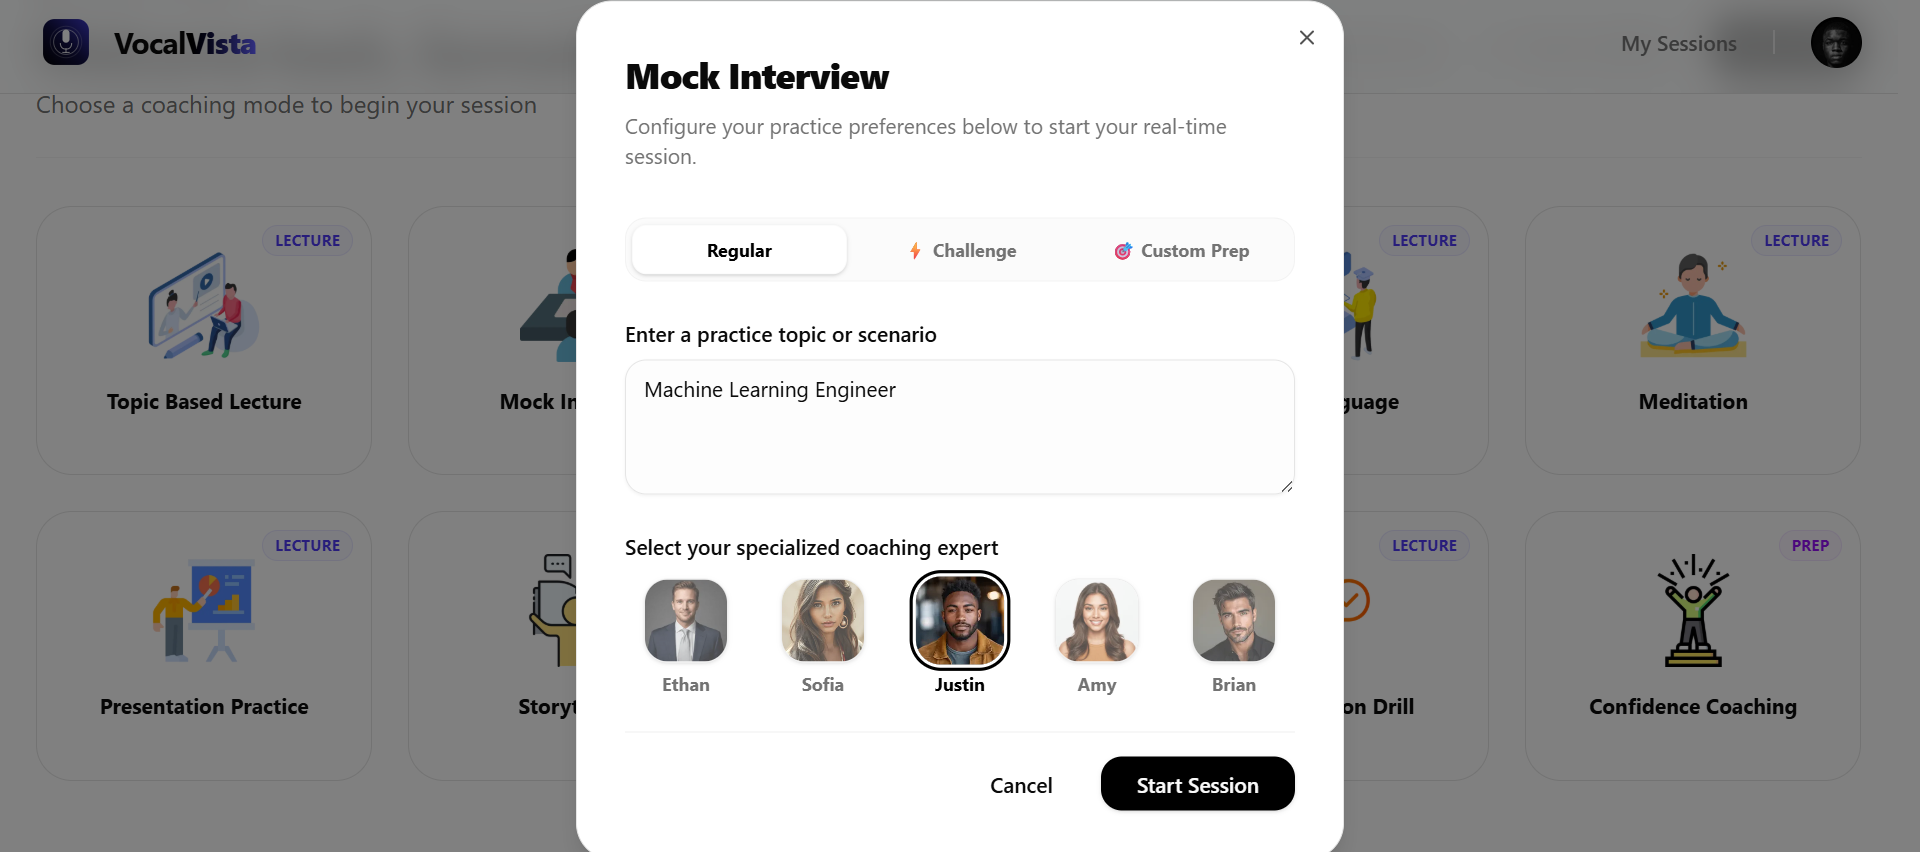
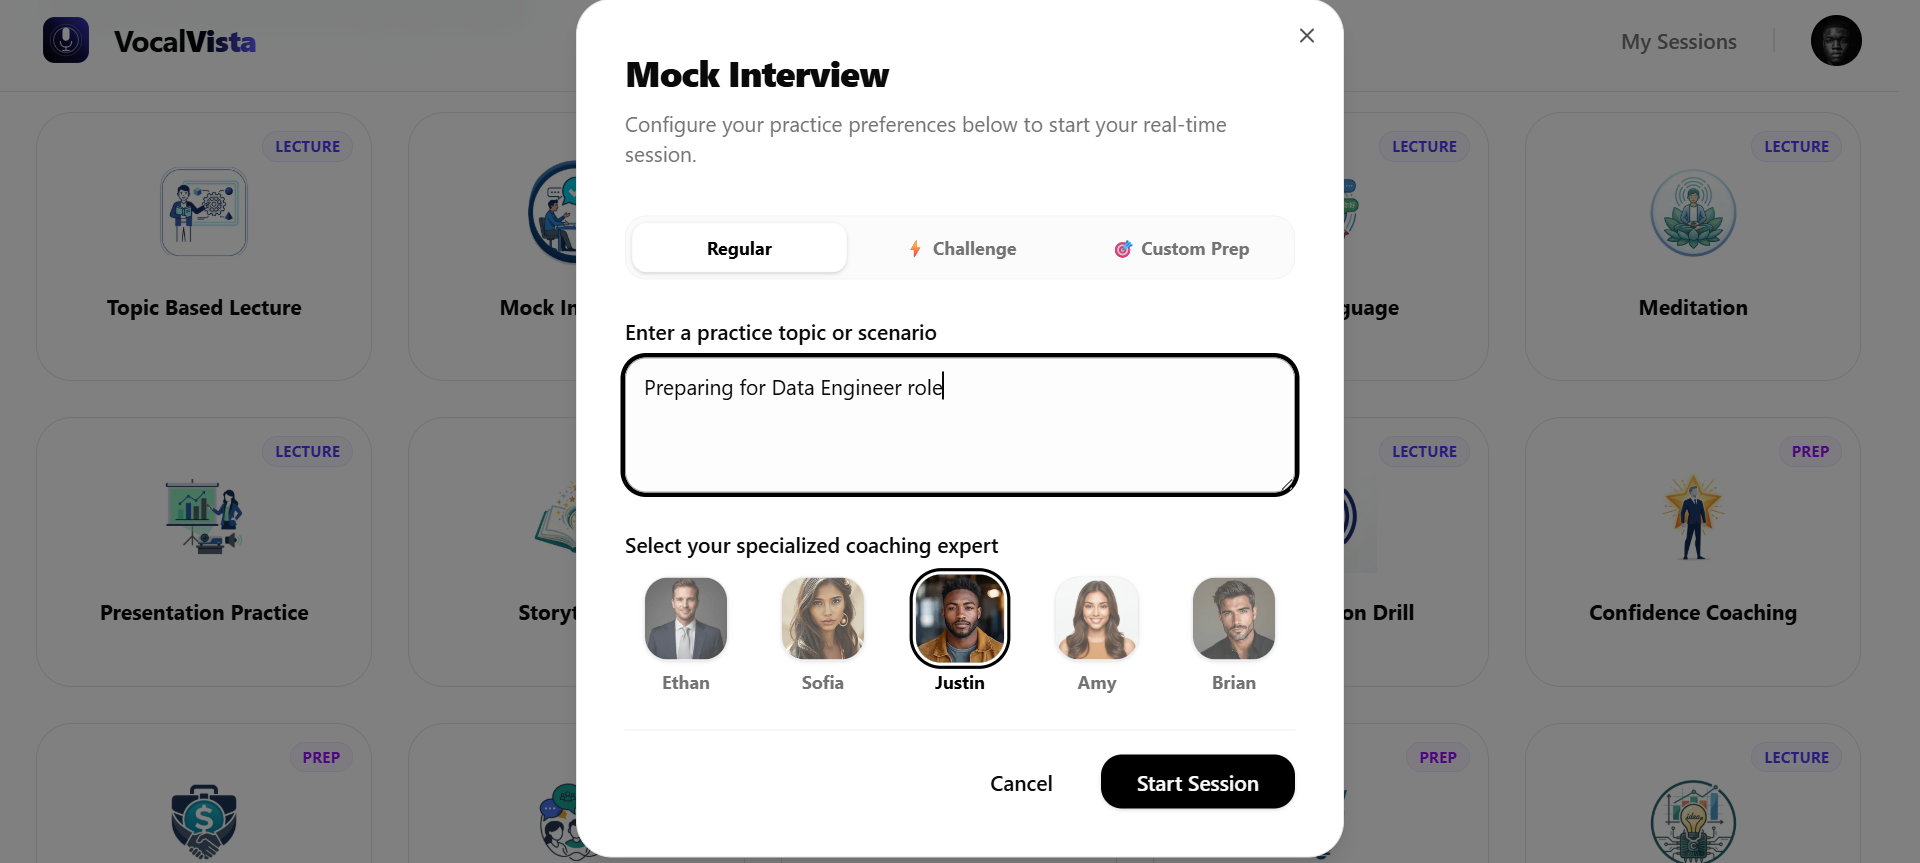
update portfolio with chowscan and resume modal

diff --git a/src/components/Hero.jsx b/src/components/Hero.jsx
@@ -1,10 +1,24 @@
+import { useState, useEffect } from "react";
 import { HERO_CONTENT } from "../constants/index";
 import aboutImg from "../assets/SamuelOlubukun.png";
 import resumePdf from "../assets/samuel_olubukun_resume.pdf";
-import { motion } from 'framer-motion';
-import { FiDownload } from 'react-icons/fi';
+import { motion, AnimatePresence } from 'framer-motion';
+import { FiDownload, FiX } from 'react-icons/fi';
 
 const Hero = () => {
+  const [isResumeOpen, setIsResumeOpen] = useState(false);
+
+  useEffect(() => {
+    if (isResumeOpen) {
+      document.body.style.overflow = "hidden";
+    } else {
+      document.body.style.overflow = "auto";
+    }
+    return () => {
+      document.body.style.overflow = "auto";
+    };
+  }, [isResumeOpen]);
+
   const container = (delay) => ({
     hidden: { x: -100, opacity: 0 },
     visible: {
@@ -57,13 +71,12 @@ const Hero = () => {
             >
               Contact
             </a>
-            <a
-              href={resumePdf}
-              download
+            <button
+              onClick={() => setIsResumeOpen(true)}
               className="flex items-center gap-2 px-6 py-3 rounded-xl border-2 border-blue-600/80 text-neutral-700 dark:text-neutral-300 hover:border-blue-500 hover:text-blue-500 dark:hover:text-blue-400 font-semibold transition-all duration-300"
             >
               <FiDownload size={16} /> Resume
-            </a>
+            </button>
           </motion.div>
         </div>
       </div>
@@ -91,16 +104,76 @@ const Hero = () => {
             >
               Contact
             </a>
-            <a
-              href={resumePdf}
-              download
+            <button
+              onClick={() => setIsResumeOpen(true)}
               className="flex items-center gap-2 px-6 py-3 rounded-xl border-2 border-blue-600/80 text-neutral-700 dark:text-neutral-300 hover:border-blue-500 hover:text-blue-500 dark:hover:text-blue-400 font-semibold transition-all duration-300"
             >
               <FiDownload size={16} /> Resume
-            </a>
+            </button>
           </motion.div>
         </div>
       </div>
+
+      <AnimatePresence>
+        {isResumeOpen && (
+          <div className="fixed inset-0 z-50 flex items-center justify-center p-4 sm:p-6 md:p-10">
+            {/* Backdrop */}
+            <motion.div
+              initial={{ opacity: 0 }}
+              animate={{ opacity: 1 }}
+              exit={{ opacity: 0 }}
+              onClick={() => setIsResumeOpen(false)}
+              className="absolute inset-0 bg-black/80 backdrop-blur-sm"
+            />
+
+            {/* Modal Body */}
+            <motion.div
+              initial={{ opacity: 0, scale: 0.95, y: 20 }}
+              animate={{ opacity: 1, scale: 1, y: 0 }}
+              exit={{ opacity: 0, scale: 0.95, y: 20 }}
+              className="relative w-full max-w-5xl h-[85vh] bg-white dark:bg-neutral-900 rounded-2xl shadow-2xl border border-neutral-200 dark:border-neutral-800 flex flex-col overflow-hidden z-10"
+            >
+              {/* Header */}
+              <div className="flex items-center justify-between px-4 py-3 sm:px-6 sm:py-4 border-b border-neutral-200 dark:border-neutral-800 bg-neutral-50 dark:bg-neutral-900/50">
+                <div className="min-w-0 pr-2">
+                  <h3 className="text-lg sm:text-xl font-bold text-neutral-900 dark:text-white leading-tight">
+                    Resume
+                  </h3>
+                  <p className="text-[11px] sm:text-xs text-neutral-500 dark:text-neutral-400 whitespace-nowrap overflow-hidden text-ellipsis mt-0.5">
+                    Samuel Olubukun — Full Stack AI/ML Engineer
+                  </p>
+                </div>
+                <div className="flex items-center gap-2 sm:gap-3 flex-shrink-0">
+                  <a
+                    href={resumePdf}
+                    download
+                    className="flex items-center gap-1.5 px-3 py-2 sm:px-4 sm:py-2 bg-blue-600 hover:bg-blue-700 text-white rounded-lg transition duration-200 text-xs sm:text-sm font-semibold shadow-md shadow-blue-500/10"
+                  >
+                    <FiDownload size={14} />
+                    <span className="hidden sm:inline">Download</span>
+                  </a>
+                  <button
+                    onClick={() => setIsResumeOpen(false)}
+                    className="p-2 rounded-lg bg-neutral-200 dark:bg-neutral-800 text-neutral-600 dark:text-neutral-400 hover:bg-neutral-300 dark:hover:bg-neutral-700 hover:text-neutral-900 dark:hover:text-white transition duration-200"
+                    aria-label="Close"
+                  >
+                    <FiX size={18} />
+                  </button>
+                </div>
+              </div>
+
+              {/* PDF Viewer / Iframe */}
+              <div className="flex-1 w-full bg-neutral-100 dark:bg-neutral-950 relative">
+                <iframe
+                  src={resumePdf}
+                  title="Samuel Olubukun Resume"
+                  className="w-full h-full border-none"
+                />
+              </div>
+            </motion.div>
+          </div>
+        )}
+      </AnimatePresence>
     </div>
   );
 };

diff --git a/src/constants/index.js b/src/constants/index.js
@@ -6,12 +6,12 @@ import voxeval from "../assets/projects/voxeval.jpg";
 import dealspotng from "../assets/projects/dealspotng.png";
 import zenithmeet from "../assets/projects/zenithmeet.png";
 import vocalvista from "../assets/projects/vocalvista.png";
-import mentora from "../assets/projects/mentora.jpg";
 import restoirhealth from "../assets/projects/restoirhealth.png";
 import thrivepath from "../assets/projects/thrivepath.jpg";
 import dabaras from "../assets/projects/dabaras.jpg";
 import contentnova from "../assets/projects/contentnova.png";
 import commitpulse from "../assets/projects/commitpulse.png";
+import chowscan from "../assets/projects/chowscan.jpg";
 import dabaraprepmobile from "../assets/projects/dabaraprepmobile.jpg";
 import dabaraprep from "../assets/projects/dabaraprep.png";
 import pdfaxis from "../assets/projects/pdfaxis.png";
@@ -118,10 +118,33 @@ export const PROJECTS = [
   },
   {
     title: "VocalVista",
-    link: "https://vocalvista.netlify.app/",
+    link: "https://vocal-vista.vercel.app/",
     image: vocalvista,
     description: "VocalVista is an AI-native voice-coaching workspace to sharpen public speaking, interview delivery, storytelling, and language fluency. Powered by Deepgram's voice agent API, it matches you with specialized AI personas to simulate real-world scenarios, analyze verbal habits, and generate progress diagnostics.",
     technologies: ["Next.js", "TypeScript", "Deepgram", "Gemini AI", "Convex", "TTS/STT"],
+  },
+  {
+    title: "Chow Scan Mobile App",
+    link: "https://github.com/samolubukun/Chow-Scan/",
+    image: chowscan,
+    description: `ChowScan is an offline AI-powered food analysis and nutrition tracking mobile application. It utilizes Google's Gemma model to execute full visual plate scans, nutrition label scans, and natural language descriptions entirely on-device, offering a private and self-contained nutrition tracking ecosystem.
+
+On-Device AI Engine (Gemma):
+Powered entirely by Google's Gemma 4 E2B IT (LiteRT-LM) model (~2.59GB), executing locally on your device via the flutter_gemma package with hardware acceleration interfacing automatically with the device GPU (PreferredBackend.gpu) for swift and efficient response generation.
+
+Capabilities:
+• Multimodal Scanning: Processes camera frames of nutrition labels and meal plates directly to identify foods and extract text layout arrays.
+• Structured Extraction: Translates complex, arbitrary visual/textual data into structured JSON objects (Calories, Protein, Carbs, Fat, and micronutrients) that can be inserted into the database.
+• Conversational Coaching: Local context-aware text generation for the in-app AI Chat screen with full message history and image attachment support.
+
+Key Features:
+• Scan a Label: Capture or select an image of a nutrition facts label to extract and analyze every macro and micronutrient offline.
+• Scan a Plate: Take a photo of your food to generate real-time estimates of calories and macronutrients.
+• Describe a Meal: Type a natural language description of what you ate to retrieve instant nutritional information.
+• Daily Intake Log: Manage your logged historical meals via a horizontal weekly date strip or integrated calendar modal.
+• AI Chat: Converse with an on-device wellness coach to ask follow-up questions with image support.
+• Offline Security: Zero data leaves the user's phone, preserving complete privacy.`,
+    technologies: ["Flutter", "Gemma", "Dart", "Android", "SharedPreferences"],
   },
   {
     title: "Dabara Prep Mobile App",
@@ -165,13 +188,6 @@ export const PROJECTS = [
     image: zenithmeet,
     description: "A premium video conferencing platform built for high-end enterprise collaboration. Utilizing ultra-low latency infrastructure, it provides encrypted meeting rooms, role-based access controls, and a minimalist celestial-inspired UI for focused professional communication.",
     technologies: ["React", "TypeScript", "Tailwind CSS", "Cloudflare Workers", "RealtimeKit", "Vite"]
-  },
-  {
-    title: "Mentora",
-    link: "https://samuelolubukun-mentora.hf.space",
-    image: mentora,
-    description: "An AI voice coaching platform for mastering high-stakes communication. From public speaking and storytelling to social mastery and conflict resolution, it provides real-time feedback to help you communicate with confidence and impact.",
-    technologies: ["Python", "FastAPI", "LiveKit", "Deepgram", "OpenAI", "Prisma", "TailwindCSS"],
   },
   {
     title: "Nova Clipper AI",

diff --git a/src/components/Project.jsx b/src/components/Project.jsx
@@ -77,7 +77,7 @@ const Project = () => {
                   {project.title}
                 </a>
               </h6>
-              <p className="mb-4 text-neutral-600 dark:text-neutral-400">{project.description}</p>
+              <p className="mb-4 text-neutral-600 dark:text-neutral-400">{project.description.split("\n\n")[0]}</p>
               {/* <div className="flex flex-wrap gap-2 mb-4">
                 {project.technologies.map((tech, index) => (
                   <span
@@ -157,7 +157,7 @@ const Project = () => {
                 <h2 className="text-3xl font-bold text-neutral-900 dark:text-white mb-4">
                   {selectedProject.title}
                 </h2>
-                <p className="text-lg text-neutral-600 dark:text-neutral-400 mb-8 leading-relaxed">
+                <p className="text-lg text-neutral-600 dark:text-neutral-400 mb-8 leading-relaxed whitespace-pre-line">
                   {selectedProject.description}
                 </p>
 

diff --git a/src/components/Technologies.jsx b/src/components/Technologies.jsx
@@ -3,7 +3,7 @@ import { motion } from "framer-motion";
 const techCategories = [
   {
     name: "Languages",
-    skills: ["Python", "JavaScript", "TypeScript", "Dart", "PHP", "Rust", "Java", "SQL", "HTML", "CSS"],
+    skills: ["Python", "JavaScript", "TypeScript", "PHP", "Rust", "Dart", "Java", "SQL", "HTML", "CSS"],
     color: "text-blue-600 dark:text-blue-400",
   },
   {
@@ -13,7 +13,7 @@ const techCategories = [
   },
   {
     name: "AI & Data Science",
-    skills: ["Generative AI", "Autonomous AI Agents", "Multi-Agent Systems", "Agentic Workflows", "RAG Pipelines", "Vector Databases", "Prompt Engineering", "OpenAI", "Gemini", "Deep Learning", "NLP", "Machine Learning", "Scikit-learn", "TensorFlow", "PyTorch", "Hugging Face"],
+    skills: ["Generative AI", "Autonomous AI Agents", "Multi-Agent Systems", "Agentic Workflows", "RAG Pipelines", "Vector Databases", "Prompt Engineering", "OpenAI", "Gemini", "Deep Learning", "NLP", "Machine Learning", "Data Analysis", "Scikit-learn", "TensorFlow", "PyTorch", "Hugging Face"],
     color: "text-orange-600 dark:text-orange-400",
   },
   {